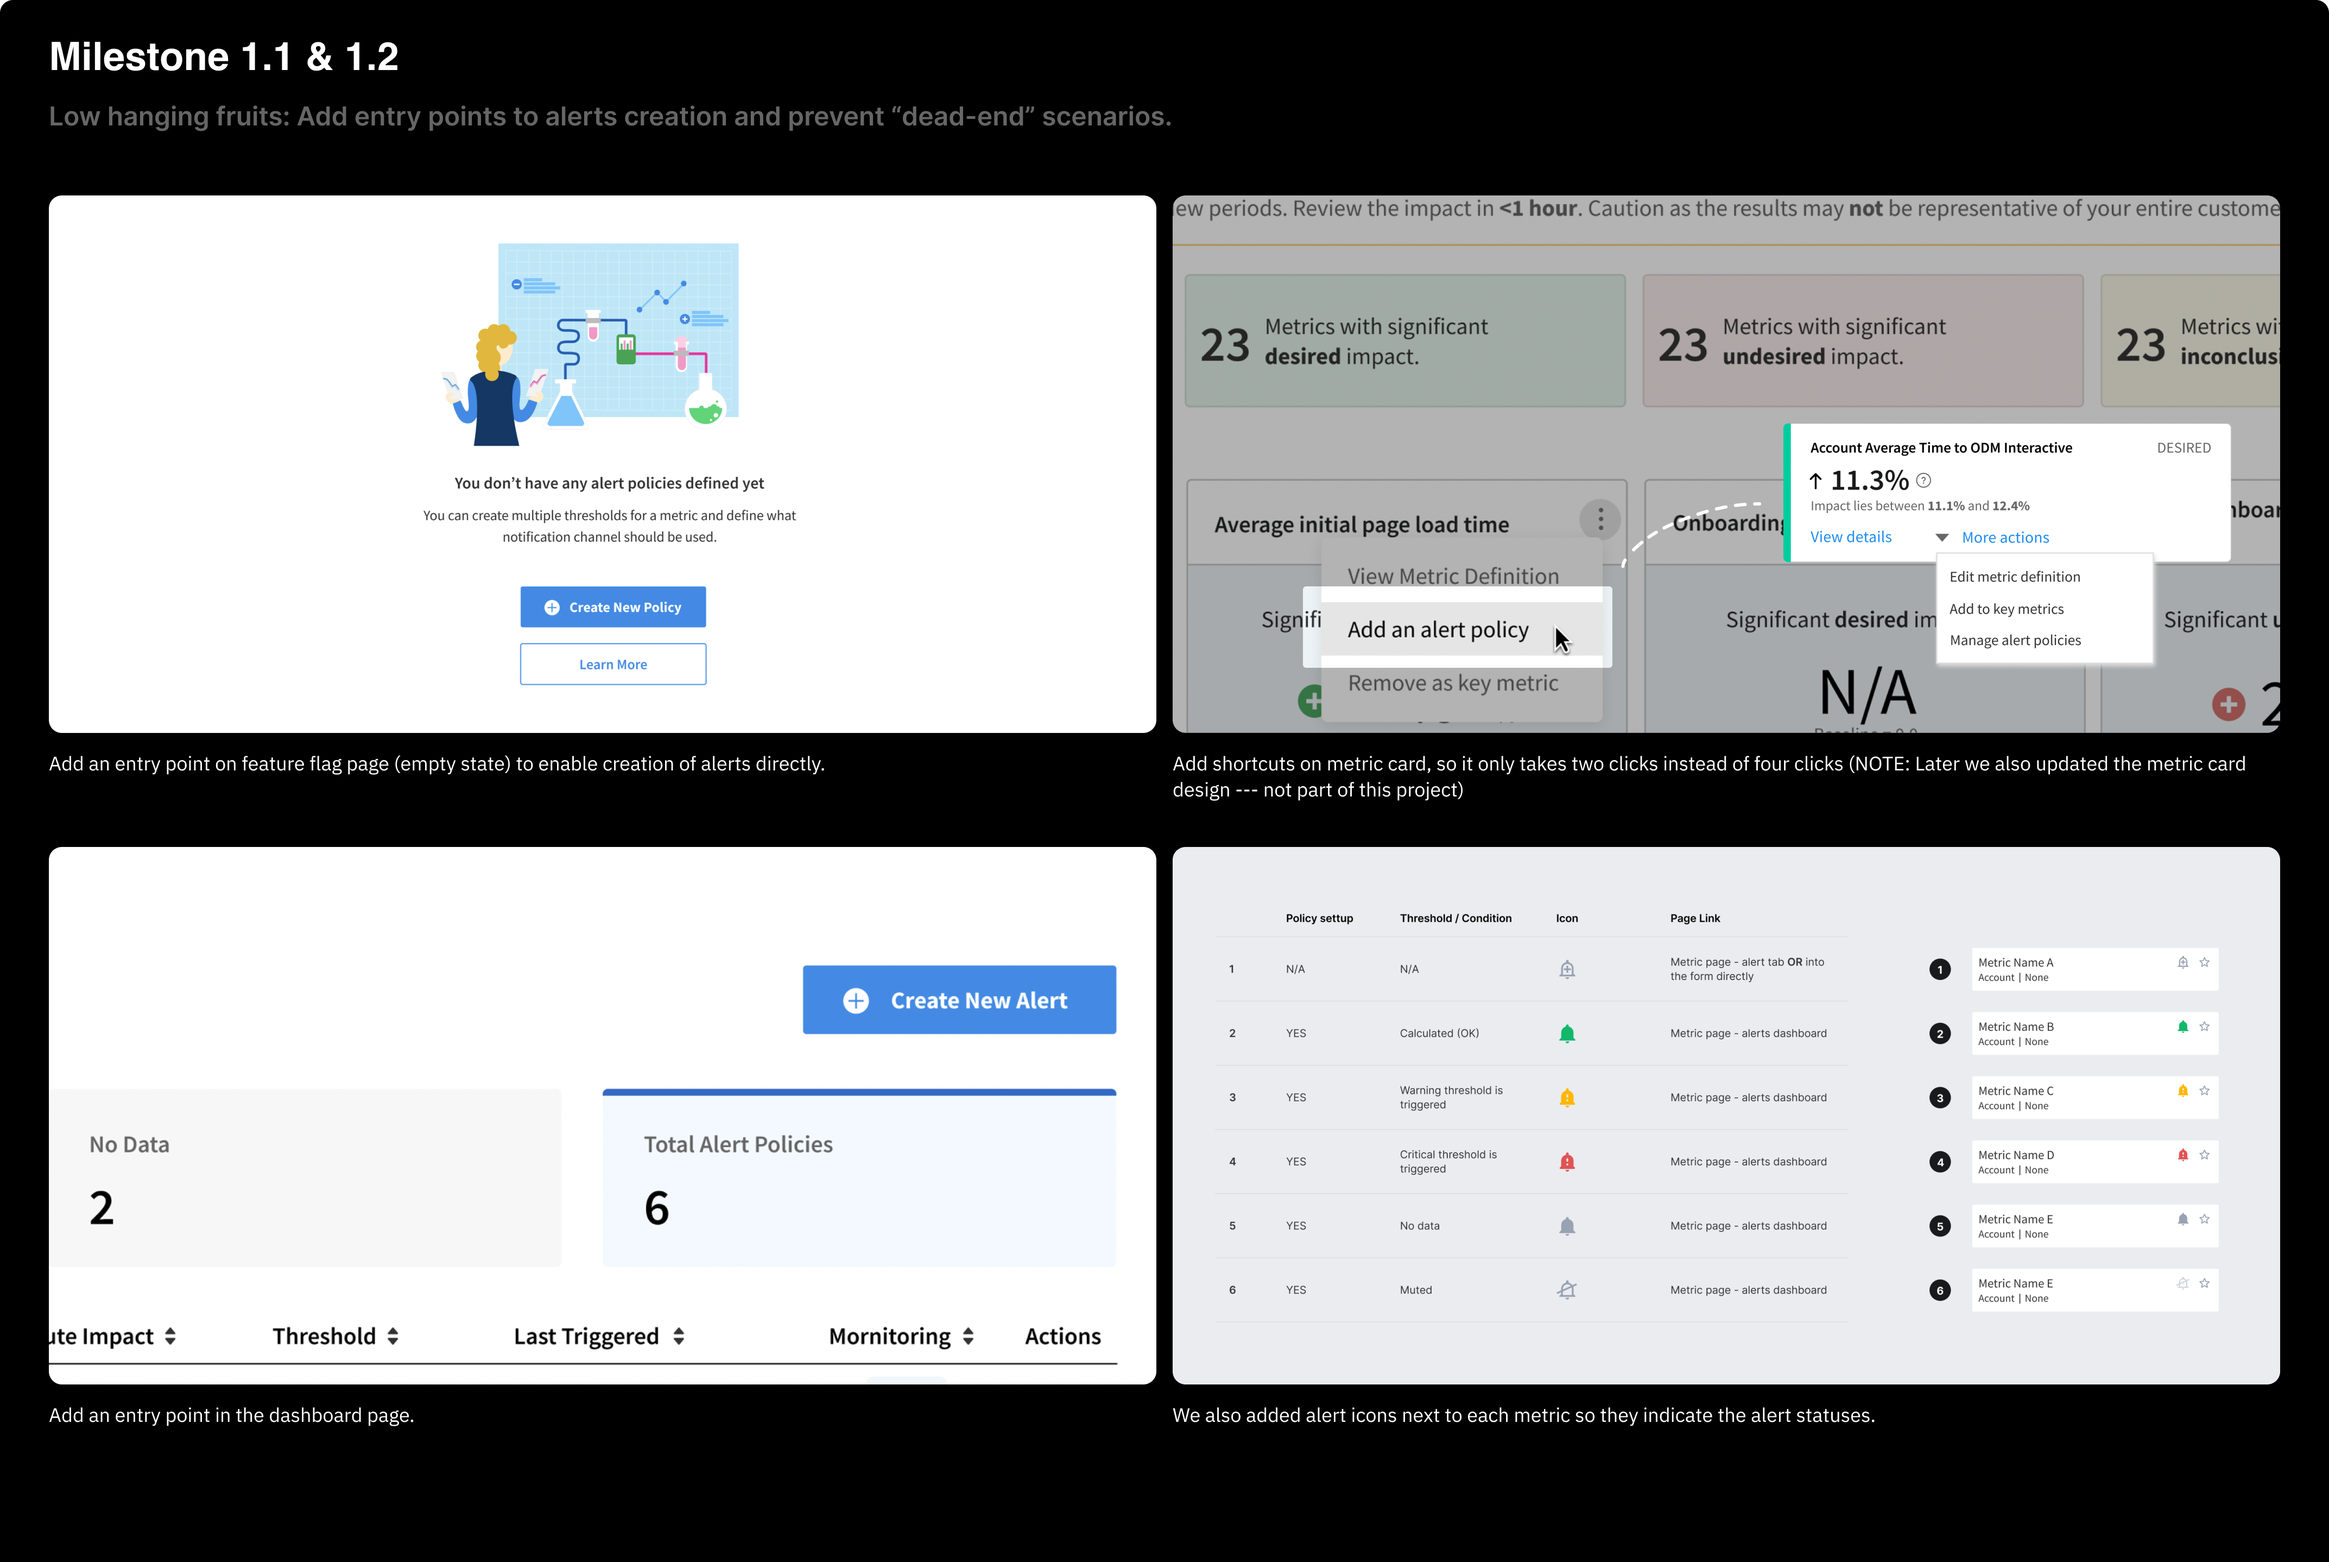
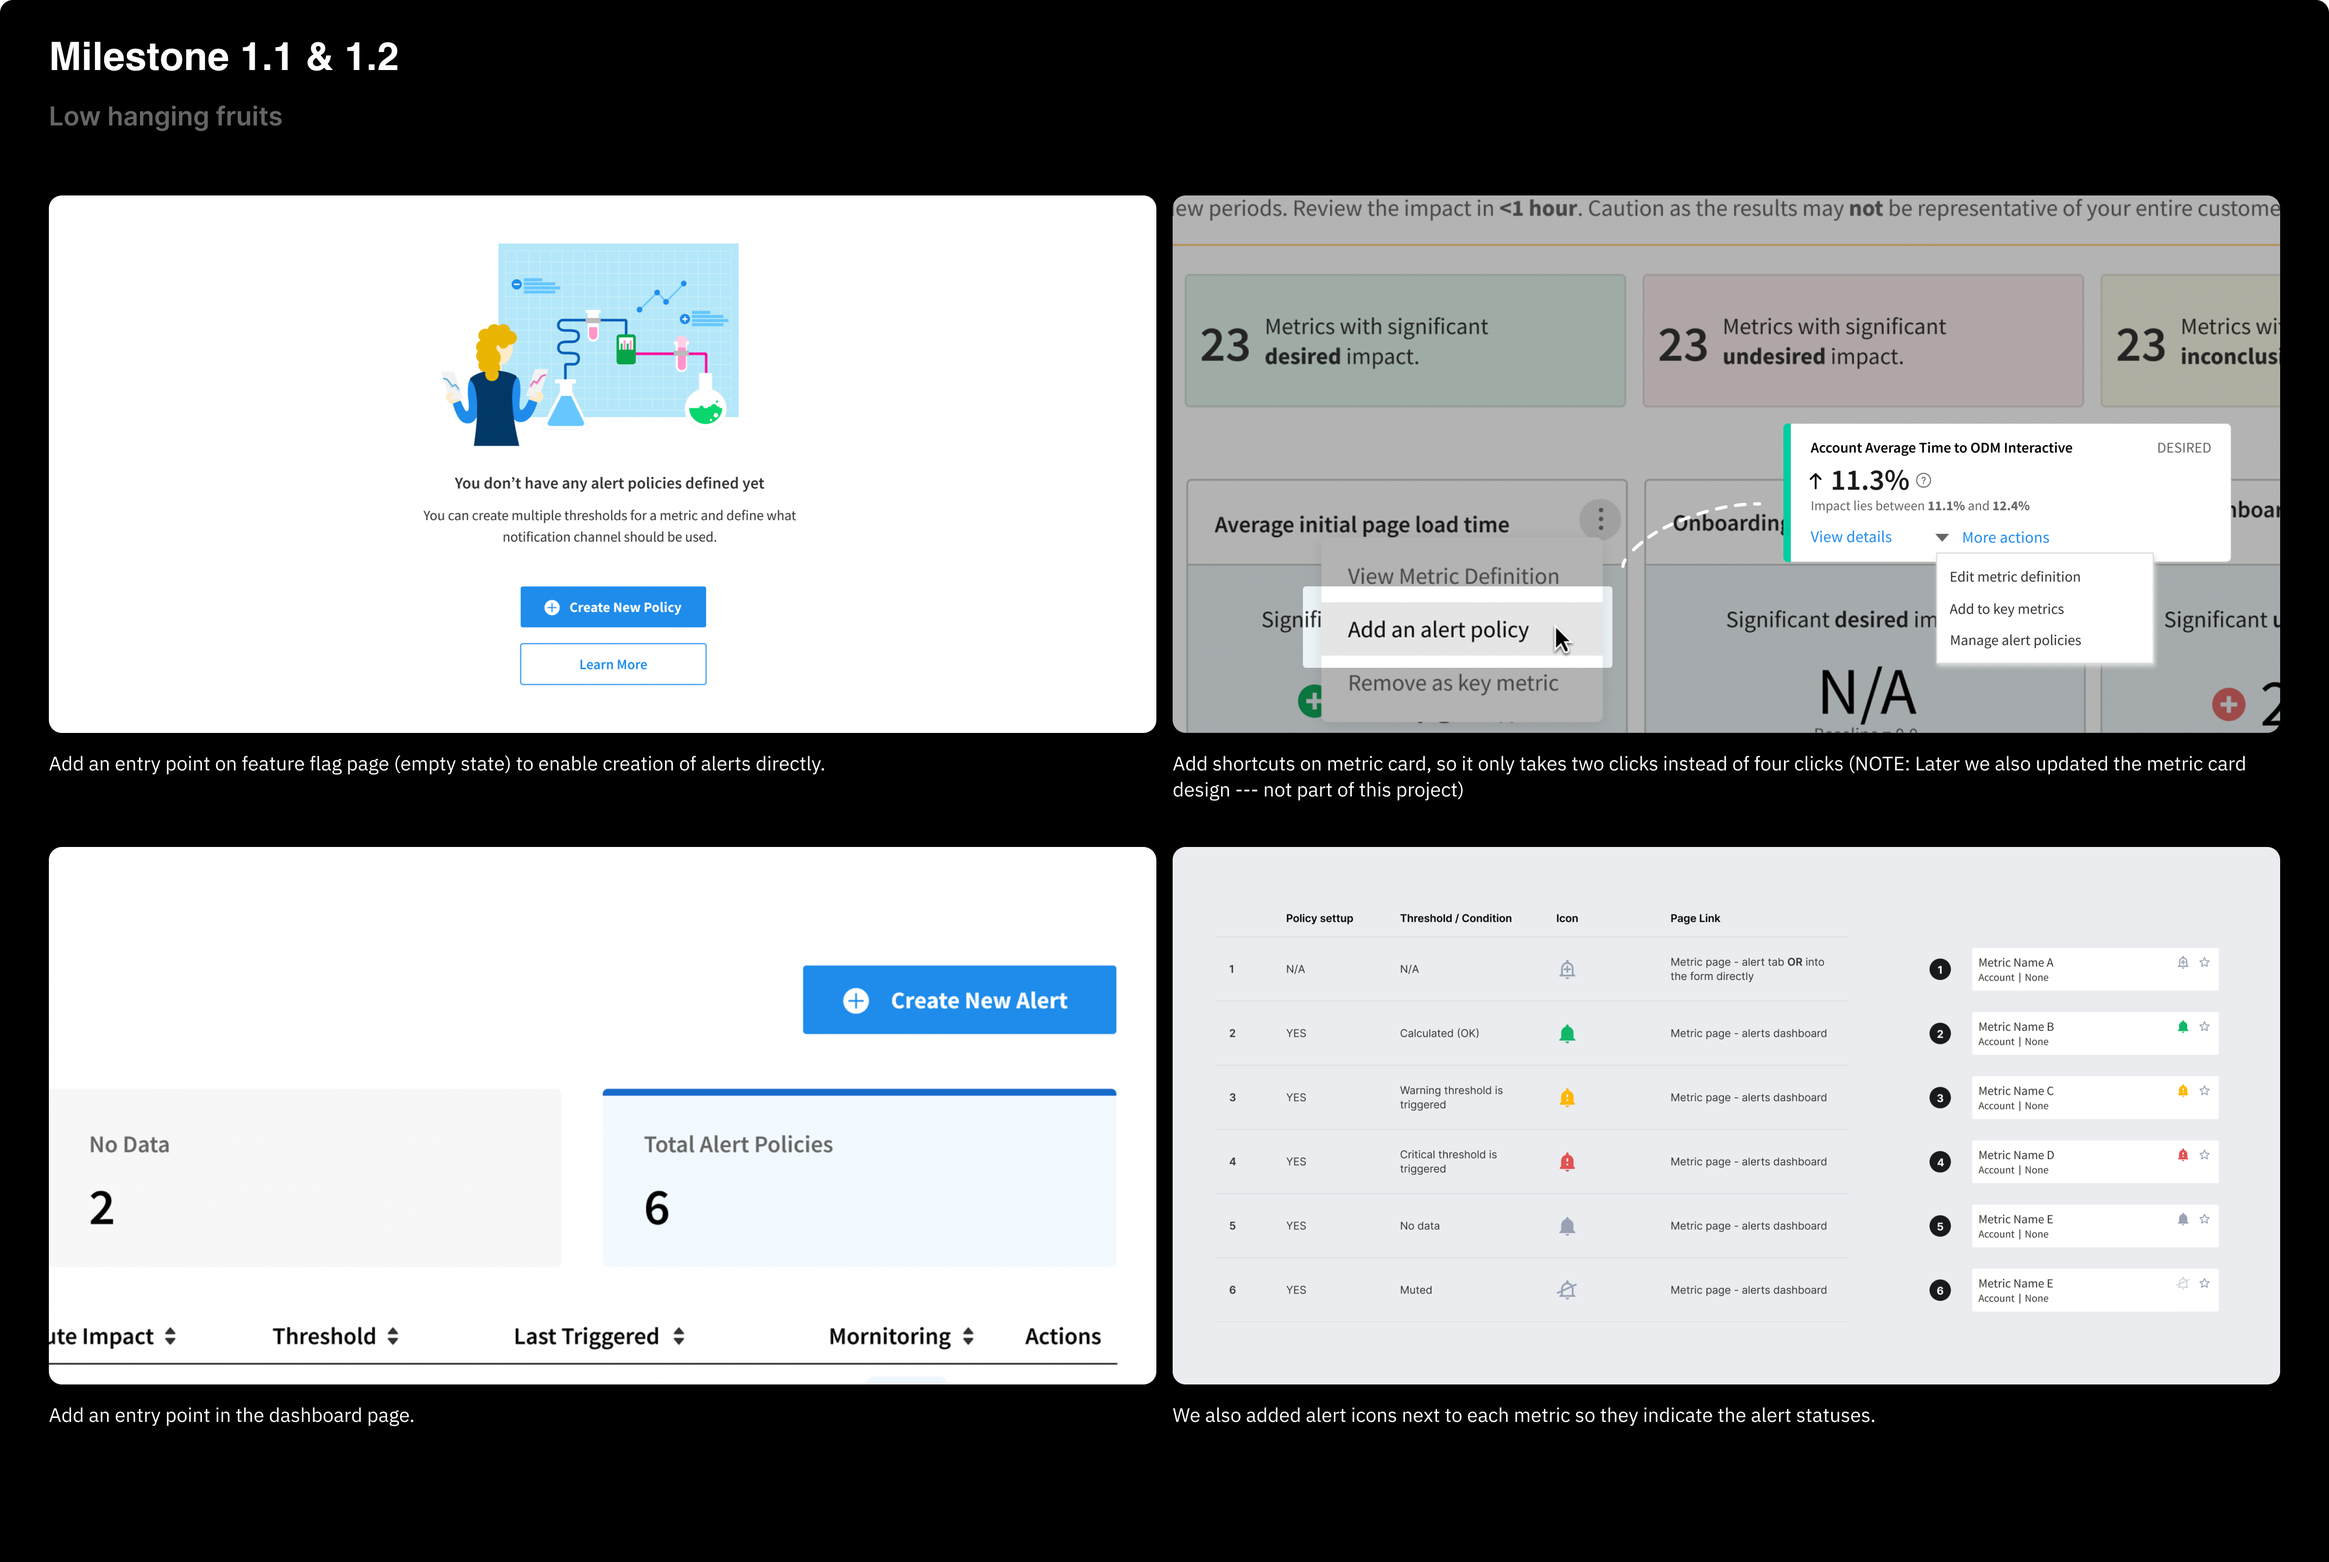
Update to alertUX.html

diff --git a/alertUX.html b/alertUX.html
@@ -78,22 +78,27 @@
         <div class="w3-col w3-container s9 m9 l7" style="padding-top: 2rem; padding-right:1.25rem;" class="panel"
             data-color="white">
             <!--00. Overview-->
-            <div class="projectDescription reveal" data-scroll-indicator-title="Overview">
+            <div class="projectDescription" data-scroll-indicator-title="Overview">
                 <h6 class="productTOC" style="color: #830049;">Overview</h6>
                 <h5 class="productTitle">
                     To alert or not to alert, that is the question.
                 </h5>
-                <h5 class="productDetails">Split is a feature delivery platform which enables companies to embrace
-                    impact driven development across their engineering teams. Causal alerting is a crucial
-                    differentiator for us in the market. As of July 2022, around 95 customers have purchased the Monitor
-                    pack, but
-                    less than 10% of them are actually using its main capabilities.</h5>
-                <h5 class="productDetails">In my role as the embedded solo designer within the Measurement
-                    and Learning team, I collaborated with the PM and engineering team to investigate the current issues
-                    and explore ways to enhance the usability of the alerting feature.
+                <h5 class="productDetails">
+                    <a href="https://www.split.io/">Split</a> is a feature delivery platform which enables users to
+                    measure the impact of released features on their customer experience metrics. Causal alerting is a
+                    crucial differentiator for us in the market. However, as of July 2022 less than 10% of our users are
+                    actually using this main capability.
                 </h5>
-                <h5 class="productDetails">Let’s dive in...not to spoil anything but this story comes with a twist~</h5>
-                <div class="skip">
+                <h5 class="productDetails">
+                    In my role as an embedded designer within the Measurement and Learning team, we embarked on a
+                    journey to investigate the current issues and explore ways to enhance the usability of the alerting
+                    feature.
+                </h5>
+                <h5 class="productDetails">
+                    Let’s dive in! Not to spoil anything but this story comes with a twist....
+
+                </h5>
+                <!-- <div class="skip">
                     <button class="button-56" role="button">
                         <h5 class="productDetails">
                             <a href="#design">
@@ -101,7 +106,7 @@
                             </a>
                         </h5>
                     </button>
-                </div>
+                </div> -->
             </div>
         </div>
 
@@ -113,7 +118,7 @@
         <!--B2-->
         <div class="w3-col w3-container s12 m7 l7" style="padding-top: 5rem; padding-right:5rem;" class="panel"
             data-color="violet">
-            <div class="productDesginDescription reveal" data-scroll-indicator-title="The way it was">
+            <div class="productDesginDescription" data-scroll-indicator-title="The way it was">
                 <h6 class="productTOC" style="color: #830049;">The way it was</h6>
                 <!-- <h6 class="productTOC" style="color: #830049;">Stakeholder interviews</h6> -->
                 <h5 class="productTitle">How might we Improve usability of our alerting feature</h5>
@@ -262,6 +267,23 @@
         <div class="detailsX" style="margin-bottom: 0rem">
             <img src="./images/Alert/D1.png">
         </div>
+
+
+        <!--D2-->
+        <div class="w3-col w3-container s12 m5 l5" style="padding-top: 2.5rem; padding-right:5rem;">
+        </div>
+        <div class="w3-col w3-container s12 m7 l7" style="padding-top: 2.5rem; padding-right:5rem;" class="panel"
+            data-color="violet">
+            <div class="productDesginDescription reveal" data-scroll-indicator-title="Milestone One">
+                <h6 class="productTOC" style="color: #830049;" id="design">Milestone One</h6>
+                <h5 class="productTitle">Low hanging fruits</h5>
+                <h5 class="productDetails">As the first step to enhance the discoverability of the alerting feature, we
+                    added entry points to the creation flow to prevent 'dead-end' scenarios. This significantly improved
+                    the click rate. Following this, we started iterations of the new creation form design.
+                </h5>
+            </div>
+        </div>
+
         <div class="detailsX" style="margin-bottom: 0rem">
             <img src="./images/Alert/D2-1.png">
         </div>

diff --git a/style.css b/style.css
@@ -556,6 +556,23 @@ em{
     font-style: normal;
 }
 
+/* Text highlight color */
+/* strong {
+    position: relative;
+  }
+  
+  strong::before {
+    background-color: #CBC8BD;
+    content: "";
+    position: absolute;
+    width: calc(100% + 4px);
+    height: 60%;
+    left: -2px;
+    bottom: 0;
+    z-index: -1;
+    transform: rotate(-2deg);
+  } */
+  
 
 
 /* Branding project inside links*/
